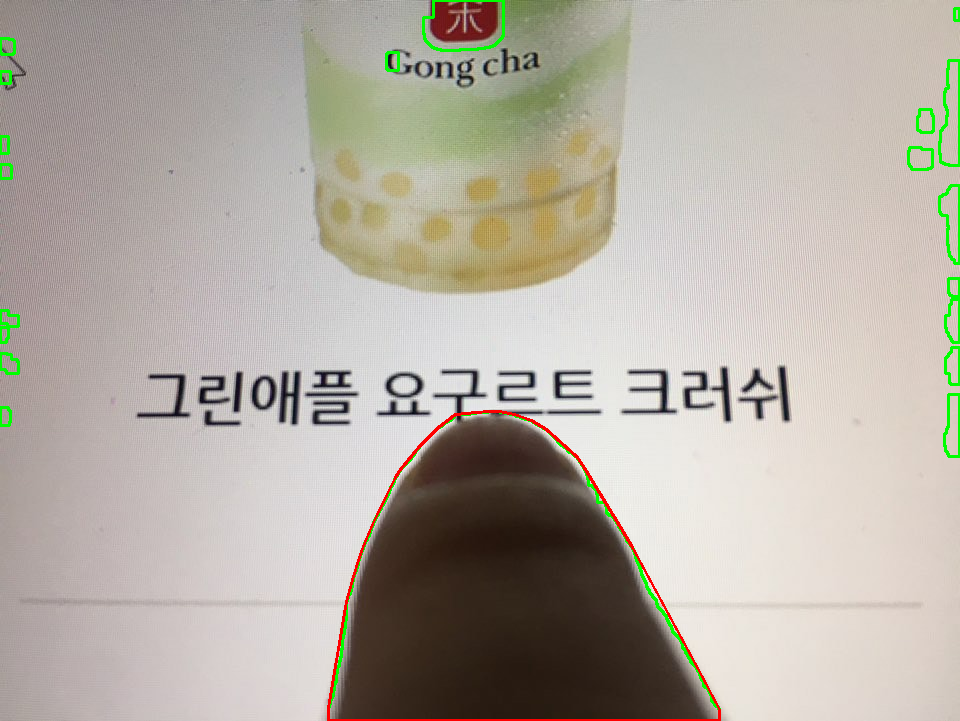
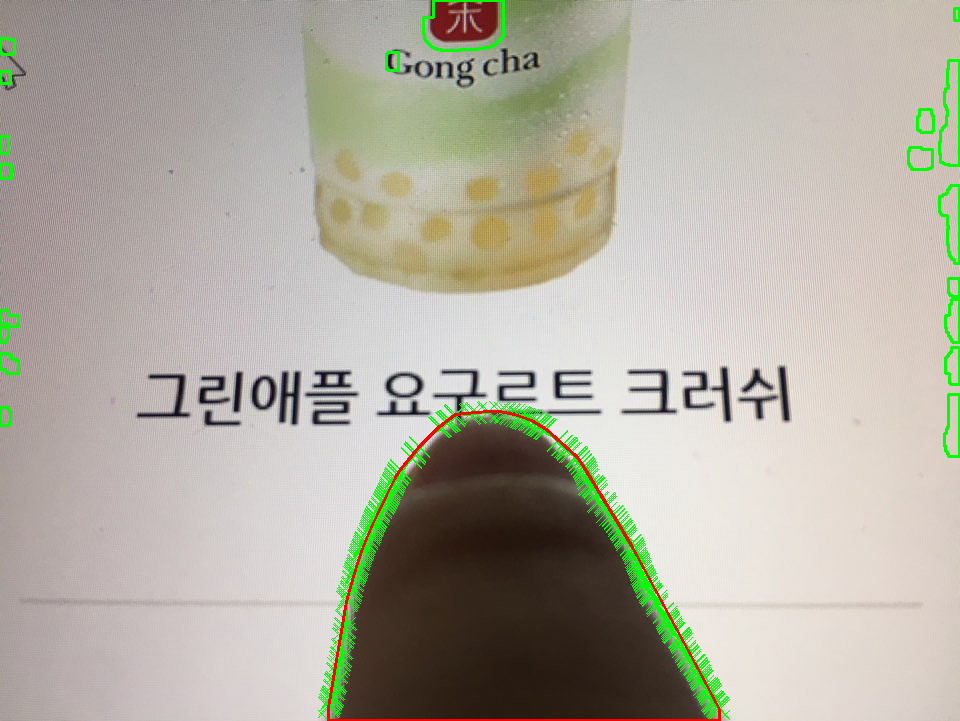
determines whether the point is inside a contour

Changed region(s): [[0.4375, 0.5492, 0.75, 1.0], [0.3125, 0.6103, 0.4375, 1.0]]

diff --git a/webcam-capture/src/main/java/example/OpencvExample.java b/webcam-capture/src/main/java/example/OpencvExample.java
@@ -1,5 +1,6 @@
 package example;
 
+import ch.qos.logback.core.net.SyslogOutputStream;
 import nu.pattern.OpenCV;
 import org.opencv.core.*;
 import org.opencv.imgcodecs.Imgcodecs;
@@ -9,6 +10,8 @@ import java.io.File;
 import java.net.URL;
 import java.util.ArrayList;
 import java.util.List;
+
+import static org.opencv.core.CvType.CV_32FC2;
 
 public class OpencvExample {
 
@@ -53,8 +56,32 @@ public class OpencvExample {
         Imgproc.findContours(morphImage, contours, hierarchy, Imgproc.RETR_CCOMP, Imgproc.CHAIN_APPROX_SIMPLE);
         // draw contours
         Mat contImage = srcImage.clone();
-        Imgproc.drawContours(contImage, contours,-1, new Scalar(0, 255, 0), 2);
+        Imgproc.drawContours(contImage, contours, -1, new Scalar(0, 255, 0), 2);
         saveImage(contImage, savePath + "/gongcha_menu_contour.png");
+
+        int centerX = srcImage.width() / 2;
+        int bottom = srcImage.height() - 1;
+        MatOfPoint maxContour = new MatOfPoint();
+//        for (int i = 0; i < contours.size(); i++) {
+            MatOfPoint cont = contours.get(0);
+            Point[] pointArr = cont.toArray();
+            for (int j = 0; j < pointArr.length; j++) {
+                Imgproc.drawMarker(contImage, pointArr[j], new Scalar(0, 255, 0), 1);
+                // center x of src image is between min and max x value of contour?
+//                if ()
+
+                System.out.println("contour point:" + pointArr[j].x + "," + pointArr[j].y);
+            }
+//        }
+
+        // determines whether the point is inside a contour
+        Point pt = new Point(centerX, bottom-1);
+        MatOfPoint2f con2 = new MatOfPoint2f();
+        cont.convertTo(con2, CV_32FC2);
+        double pointInContour = Imgproc.pointPolygonTest(con2, pt, false);
+        System.out.println("src image center x:" + centerX);
+        System.out.println("src image max y-1:" + bottom);
+        System.out.println("point is inside?:" + pointInContour);
 
         // draw convex hull
         MatOfPoint points = contours.get(0);
